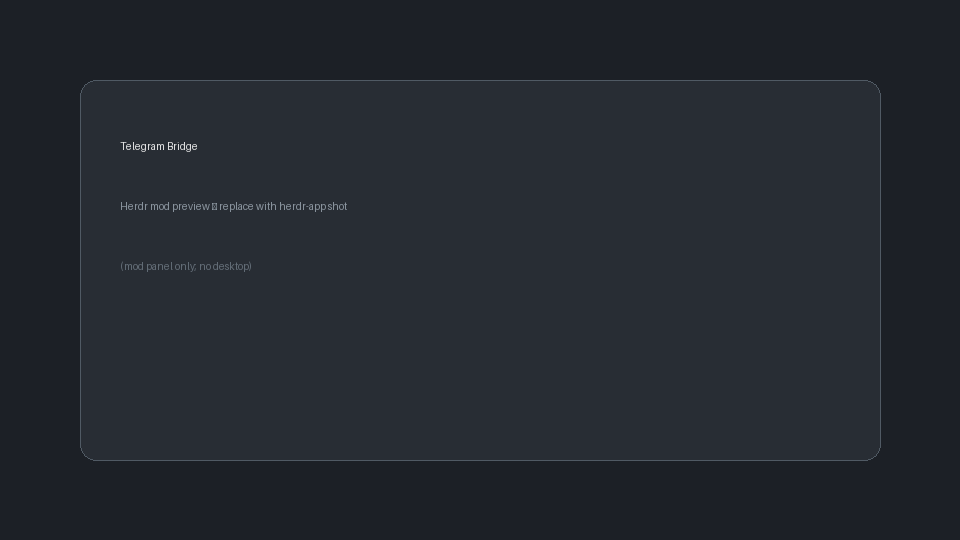
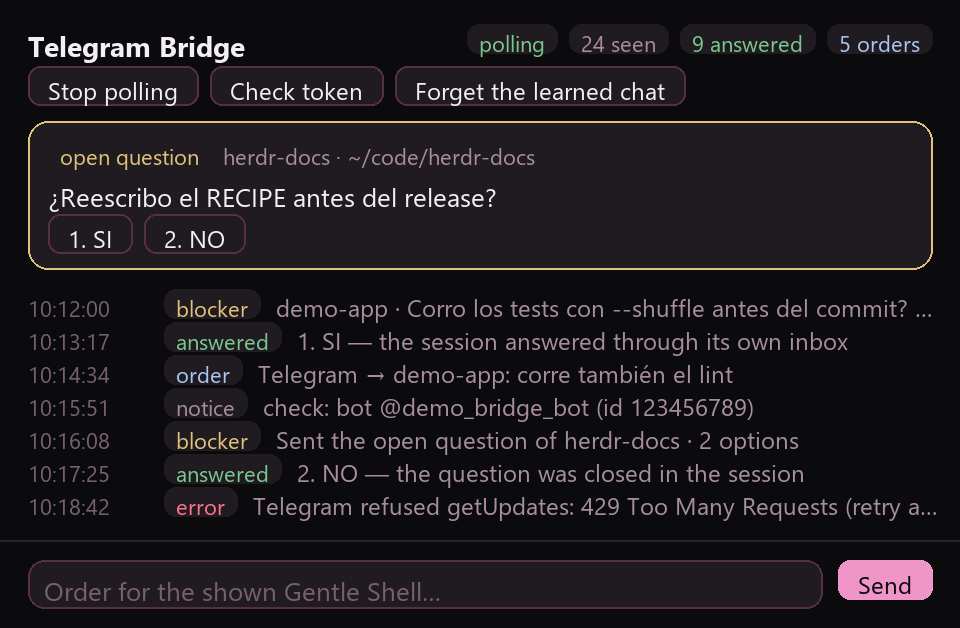
docs(hub): README ready to announce, sanitized preview mock, test count fixed
- README: Requirements, a "What it touches" surface table (network host, reads,
  writes, the one program it runs, the secret), and first-run steps (BotFather,
  check, first chat becomes the operator's).
- README/RECIPE: the test count was 41, it is 53.
- preview.png was 99% two flat colours; tools/preview-mock.py now draws the card
  from tokens.js hex fallbacks and ui.js sizes, sanitized (no session, cwd or
  token). Disclosed in the README caption and RECIPE.
- RECIPE: the internal NOX9GO path is no longer a dangling reference, and
  herdr-app check's stranded-tasks warning is recorded under "Watch out".

Risk: none (docs, a new preview generator and an image; no mod code changed)

diff --git a/tools/preview-mock.py b/tools/preview-mock.py
@@ -1,0 +1,198 @@
+#!/usr/bin/env python3
+"""Build preview.png: a sanitized mock of the Telegram Bridge card.
+
+Why a mock: a real `herdr-app shot` of the open mod carries the session name,
+its cwd and whatever the machine's feed holds, and the hub screenshot must not
+carry any of that. Values here come from mods/gentle-telegram/tokens.js (hex
+fallbacks) and ui.js (sizes, paddings, radii); no bot, session or path is real.
+
+Run: python tools/preview-mock.py
+"""
+import os
+from PIL import Image, ImageDraw, ImageFont
+
+S = 2                      # render at 2x, so the PNG is 960 wide
+W = 480                    # the panel's width in CSS px
+P = {
+    "background": "#0b0a0c", "surface": "#171318", "raised": "#201a21",
+    "line": "#2a2229", "lineStrong": "#563040", "text": "#f4eff2",
+    "muted": "#a78e9b", "faint": "#76616b", "accent": "#f095c8",
+    "ok": "#79c98f", "warn": "#e0c27a", "err": "#ff718f", "info": "#a9c7ee",
+}
+R = {"card": 10, "chip": 6, "row": 8}
+# The app draws with its own UI font; any sans-serif with the same metrics is close
+# enough, so the script runs on the machine that has one instead of one OS's folder.
+FONT_DIRS = ["C:/Windows/Fonts", "/System/Library/Fonts", "/Library/Fonts",
+             "/usr/share/fonts/truetype/dejavu", "/usr/share/fonts/truetype/liberation",
+             os.path.expanduser("~/.local/share/fonts")]
+FONT_FILES = {"reg": ["segoeui.ttf", "DejaVuSans.ttf", "LiberationSans-Regular.ttf",
+                      "Helvetica.ttc", "Arial.ttf"],
+              "semi": ["segoeuib.ttf", "DejaVuSans-Bold.ttf", "LiberationSans-Bold.ttf",
+                       "Helvetica.ttc", "Arial Bold.ttf"]}
+
+
+def font_path(kind, size):
+    for directory in FONT_DIRS:
+        for name in FONT_FILES[kind]:
+            candidate = os.path.join(directory, name)
+            if os.path.exists(candidate):
+                return candidate
+    return None
+
+
+def load(kind, size):
+    path = font_path(kind, size)
+    if path:
+        try:
+            return ImageFont.truetype(path, size * S)
+        except OSError:
+            pass
+    return ImageFont.load_default(size * S)
+
+
+F_TITLE = load("semi", 14)
+F_CHIP = load("reg", 11)
+F_BTN = load("reg", 12)
+F_BODY = load("reg", 13)
+F_META = load("reg", 11)
+F_LOG = load("reg", 12)
+
+HEADER = {"polling": ("polling", "ok"), "idle": ("idle", "muted"),
+          "error": ("error", "err"), "checking": ("checking", "info")}
+QUESTION = {
+    "chip": ("open question", "warn"),
+    "meta": "herdr-docs \u00b7 ~/code/herdr-docs",
+    "text": "\u00bfReescribo el RECIPE antes del release?",
+    "options": ["1. SI", "2. NO"],
+}
+LOG = [
+    ("blocker", "demo-app \u00b7 Corro los tests con --shuffle antes del commit? \u00b7 2 options"),
+    ("answered", "1. SI \u2014 the session answered through its own inbox"),
+    ("order", "Telegram \u2192 demo-app: corre tambi\u00e9n el lint"),
+    ("notice", "check: bot @demo_bridge_bot (id 123456789)"),
+    ("blocker", "Sent the open question of herdr-docs \u00b7 2 options"),
+    ("answered", "2. NO \u2014 the question was closed in the session"),
+    ("error", "Telegram refused getUpdates: 429 Too Many Requests (retry after 3)"),
+]
+KIND = {"blocker": "warn", "answered": "ok", "order": "info",
+        "error": "err", "notice": "muted"}
+
+
+def tw(d, text, font):
+    return d.textlength(text, font=font)
+
+
+def th(font):
+    box = font.getbbox("Ag")
+    return box[3] - box[1]
+
+
+class Pen:
+    def __init__(self, img, d):
+        self.img, self.d, self.y = img, d, 0
+
+    def chip(self, x, y, text, color):
+        h = th(F_CHIP) + 4 * S
+        w = tw(self.d, text, F_CHIP) + 12 * S
+        self.d.rounded_rectangle([x, y, x + w, y + h], R["chip"] * S, fill=P["raised"])
+        self.d.text((x + 6 * S, y + 2 * S), text, font=F_CHIP, fill=P[color])
+        return w, h
+
+    def button(self, x, y, label, primary=False, disabled=False):
+        h = th(F_BTN) + 8 * S
+        w = tw(self.d, label, F_BTN) + 20 * S
+        edge = P["accent"] if primary else P["lineStrong"]
+        self.d.rounded_rectangle([x, y, x + w, y + h], R["chip"] * S,
+                                 fill=P["accent"] if primary else P["raised"],
+                                 outline=edge, width=1 * S)
+        self.d.text((x + 10 * S, y + 4 * S), label, font=F_BTN,
+                    fill=P["background"] if primary else P["text"])
+        if disabled:
+            box = self.img.crop((int(x), int(y), int(x + w), int(y + h)))
+            self.img.paste(Image.blend(box, Image.new("RGB", box.size, P["raised"]), 0.55), (int(x), int(y)))
+        return w, h
+
+
+def build(img, d):
+    pen = Pen(img, d)
+    x0, y = 14 * S, 12 * S
+
+    # header, row 1: title left, chips right (title has flex_1 in the view)
+    chips = [HEADER["polling"][0], "24 seen", "9 answered", "5 orders"]
+    colors = [HEADER["polling"][1], "muted", "ok", "info"]
+    widths = [tw(d, c, F_CHIP) + 12 * S for c in chips]
+    cx = W * S - 14 * S - sum(widths) - 6 * S * (len(chips) - 1)
+    d.text((x0, y + 1 * S), "Telegram Bridge", font=F_TITLE, fill=P["text"])
+    for c, col, w in zip(chips, colors, widths):
+        pen.chip(cx, y, c, col)
+        cx += w + 6 * S
+    y += max(th(F_TITLE) + 2 * S, th(F_CHIP) + 4 * S) + 6 * S
+
+    # header, row 2: the three buttons
+    for label, primary, disabled in [("Stop polling", False, False),
+                                     ("Check token", False, False),
+                                     ("Forget the learned chat", False, False)]:
+        w, _ = pen.button(x0, y, label, primary, disabled)
+        x0 += w + 6 * S
+    y += th(F_BTN) + 8 * S + 8 * S
+
+    # body: the open question, then the log
+    x0 = 14 * S
+    bw = W * S - 28 * S
+    pad = 10 * S
+    qh = 8 * S + (th(F_CHIP) + 4 * S) + 6 * S + th(F_BODY) + 6 * S + (th(F_BTN) + 8 * S) + 8 * S
+    d.rounded_rectangle([x0, y, x0 + bw, y + qh], R["card"] * S, fill=P["raised"],
+                        outline=P["warn"], width=1 * S)
+    qy = y + 8 * S
+    w, h = pen.chip(x0 + pad, qy, *QUESTION["chip"])
+    d.text((x0 + pad + w + 6 * S, qy + 2 * S), QUESTION["meta"], font=F_META, fill=P["muted"])
+    qy += h + 6 * S
+    d.text((x0 + pad, qy), QUESTION["text"], font=F_BODY, fill=P["text"])
+    qy += th(F_BODY) + 6 * S
+    bx = x0 + pad
+    for label in QUESTION["options"]:
+        w, _ = pen.button(bx, qy, label)
+        bx += w + 6 * S
+    y += qh + 10 * S
+
+    # log: time (60px), kind chip, one truncated line
+    for index, (kind, text) in enumerate(LOG):
+        d.text((x0, y + 2 * S), "10:%02d:%02d" % (12 + index, (index * 17) % 60),
+               font=F_META, fill=P["faint"])
+        w, h = pen.chip(x0 + 60 * S + 8 * S, y, kind, KIND[kind])
+        tx = x0 + 60 * S + 8 * S + w + 8 * S
+        room = x0 + bw - tx
+        line = text
+        while tw(d, line, F_LOG) > room and len(line) > 8:
+            line = line[:-2]
+        if line != text:
+            line = line[:-1] + "\u2026"
+        d.text((tx, y + 1 * S), line, font=F_LOG, fill=P["muted"])
+        y += max(h, th(F_LOG) + 3 * S) + 2 * S
+
+    # composer: top border, input box, Send
+    y += 10 * S
+    d.line([0, y, W * S, y], fill=P["line"], width=1 * S)
+    y += 10 * S
+    box_h = th(F_BODY) + 12 * S
+    send_w = tw(d, "Send", F_BTN) + 20 * S
+    d.rounded_rectangle([x0, y, x0 + bw - send_w - 8 * S, y + box_h], R["row"] * S,
+                        fill=P["raised"], outline=P["lineStrong"], width=1 * S)
+    d.text((x0 + 8 * S, y + 6 * S), "Order for the shown Gentle Shell\u2026",
+           font=F_BODY, fill=P["faint"])
+    pen.button(x0 + bw - send_w, y, "Send", primary=True)
+    y += box_h + 10 * S
+    return int(y)
+
+
+def main():
+    probe = ImageDraw.Draw(Image.new("RGB", (10, 10)))
+    h = build(Image.new("RGB", (W * S, 1)), probe)
+    img = Image.new("RGB", (W * S, h), P["background"])
+    build(img, ImageDraw.Draw(img))
+    img.save("preview.png")
+    print("preview.png", img.size)
+
+
+if __name__ == "__main__":
+    main()

diff --git a/RECIPE.md b/RECIPE.md
@@ -17,7 +17,7 @@ The head "Telegram Bridge" (14px, semibold) with the status pill (`polling`, `id
 - **The token.** `shared("gentle-telegram.token")` from `kit.json`; `GENTLE_TELEGRAM_TOKEN` is read as a fallback when the setting is empty. Nothing about NOX9GO's configuration is reused, and the token is never logged: a failed call logs what Telegram said (`Telegram refused getMe: ...`), not the token.
 - Errors are deduped: the same complaint is logged once a minute at most, so a Telegram outage cannot fill the log.
 ## Built from
-- `docs/TELEGRAM_GENTLE_SHELL.md` in NOX9GO (the review of what made Telegram work there): the detection order (desktop feed first), dedup by `toolCallId`, and the `answer_question`/`via: "session"` inbox path over pane keys.
+- An earlier internal review of a Telegram bridge in another Gentle Shell setup (NOX9GO): the detection order (desktop feed first), dedup by `toolCallId`, and the `answer_question`/`via: "session"` inbox path over pane keys.
 - The Gentle Shell desktop contracts `gentle-shell.desktop-feed/v1` (the session snapshot: `activity.state`, `identity.sessionId`, `identity.agentDir`, `pendingQuestion.{kind,tool,toolCallId,question,options[]}`) and `gentle-shell.desktop-action/v1`.
 - The publication shape of `Pacoaldev/gentle-agent-cards` (`mods/<name>/`, `kit.json`, `RECIPE.md`, `preview.json`, a README with an install prompt).
 - Herdr's mod API: `herdr` (`shared`, `setShared`, `nextCommand`, `watchFolder`, `hc`, `focused`, `terminals`, `home`, `theme`, `notify`), `gpui-kit` (`View`, `div`), `gpui-base` (`v_flex`, `h_flex`, `Textarea`, `TextareaState`), `fs/promises`.
@@ -25,13 +25,14 @@ The head "Telegram Bridge" (14px, semibold) with the status pill (`polling`, `id
 ## Watch out
 - **The mod's `fs/promises` has no `stat`, and `herdr-app check` is what tells you**: it failed with `Could not find export 'stat' in module 'fs/promises'` before the recency map replaced it. Check the mod after every host import you add; a wrong export is a load failure, not a runtime error.
 - **A mod window is a `place: "none"` mod**, so it registers its commands only once a pane instantiates it: `herdr-app do` on it needs the mod open in a pane first, and the ⌘-list entry comes from `kit.json`'s `"key"` setting.
+- **`herdr-app check` passes with one warning**: `a reload stranded script tasks that will never settle (3 a HostModule's async function, 1 cx.sleep(ms)); re-register background work from init()`. The loops stop correctly (`live(cx)`), but a reload still leaves the timer and host calls stranded; a fresh build should re-register its background work from `init()` instead of at module scope.
 - **Streams and `fetch`.** A long poll holds the promise for 25 s (`POLL_TIMEOUT_DEFAULT`), and a Telegram failure logs the description Telegram sent, never the URL: the URL carries the bot token.
 - **`cx.sleep` is the host's timer.** `lib/` stays free of it (the runtime takes `sleep` as an argument), which is what lets the outbox wait be tested without a window.
 - **Never `bg()` a raw `theme()` value**: it may be missing on some setups and an `undefined` colour surfaces as "child(value) expects an element". `tokens.js` reads a role and falls back to the token's own hex.
 - **A render error keeps the pane on the failed version** (the banner "This view could not be re-rendered" stays after the fix): close the pane and split it again.
-- `preview.png` is **only the mod card**, not your desktop, terminals, or paths. Open the overlay (`herdr-app do mod.open --name gentle-telegram`), crop to the Telegram Bridge panel, or use a placeholder. Never commit a full-window `herdr-app shot` (secrets and cwd leak in the README).
+- `preview.png` is a **sanitized mock**, not a shot of a real window: `tools/preview-mock.py` draws it from `tokens.js` hex fallbacks and the sizes in `ui.js`, so it carries no session name, cwd, token or feed data (the hub screenshot must never carry those). Regenerate it with `python tools/preview-mock.py`; replace it with a real `herdr-app shot` once a real session's card can be cropped to the panel alone. Never commit a full-window shot (secrets and cwd leak in the README).
 - Verified on this machine (Windows): the mod loads in a pane (`pane.split --direction right --mod gentle-telegram`) and as an overlay with `"errors": []`, and it draws its card with the missing-token notice, not the "This view could not be re-rendered" banner. Untested: a real bot token (no bot was configured in this work), a live Pi session answering through the inbox, the network reach of a mod's own `fetch` (a probe mod is at `tests/probe-network/`: `herdr-app check` strands the task at teardown, so it needs the live window), macOS, Linux, a remote machine's window, group chats, and a `pendingQuestion` of kind `prompt`.
 ## Done when
-- `node --test tests/` is 41 pass / 0 fail, and `herdr-app check mods/gentle-telegram` passes.
+- `node --test tests/` is 53 pass / 0 fail, and `herdr-app check mods/gentle-telegram` passes.
 - With a token set: `gentle-telegram.check` answers which bot it is; with a session blocked on a choice, the question arrives with one button per option; a tap answers it in the session (the outbox result says so) and the message turns into `✅ <option>`.
 - With polling on and a session with an inbox, a Telegram message appears as a prompt in that session.

diff --git a/README.md b/README.md
@@ -2,16 +2,38 @@
   <img width="100%" src="preview.png" alt="Telegram Bridge" />
 </p>
 
+*Sanitized mock of the mod's card (`tools/preview-mock.py`): no real session, path or token.*
+
 # Telegram Bridge
 A Herdr app mod (`gentle-telegram`) that puts Telegram in the loop of a [Gentle Shell](https://github.com/Pacoaldev) session: the option question a session is blocked on goes to your phone with one button per option, and a message you send from Telegram runs as a prompt in the newest session.
 
 The point is which path answers. A tap writes a `gentle-shell.desktop-action/v1` file (`kind: "answer_question"`, `args: { toolCallId, option, via: "session" }`) into `<agentDir>/desktop/inbox/<sessionId>/`, which is the path that actually unblocks Pi: no terminal keys, no pane scraping.
+
+## Requirements
+- The [Herdr app](https://herdr.dev), with mods and `kit.json` settings.
+- Gentle Shell sessions writing the desktop feed (`gentle-shell.desktop-feed/v1`) on this machine.
+- A Telegram bot: talk to @BotFather, `/newbot`, copy the token.
+
+## What it touches
+| Surface | What |
+| --- | --- |
+| Network | `https://api.telegram.org` only, with your bot token. No other host. |
+| Reads | `<agentDir>/desktop/sessions/*.json` (the feed) and `<agentDir>/desktop/outbox/<sessionId>/*.json` (the session's own answer coming back). |
+| Writes | `<agentDir>/desktop/inbox/<sessionId>/<id>.json`, the `gentle-shell.desktop-action/v1` answer file. |
+| Runs | `hc send <address> <text>` only when the newest session has no inbox. Nothing else is executed. |
+| Secret | The bot token lives in `shared("gentle-telegram.token")` (or `GENTLE_TELEGRAM_TOKEN`) and is never logged. |
 
 ## Install
 Copy and paste this prompt to your LLM agent:
 `Read ~/.config/herdr-app/AGENTS.md, then add this mod: https://github.com/Pacoaldev/gentle-telegram/tree/main/mods/gentle-telegram`
 
 Nothing outside the mod folder is required: it talks to Telegram over `fetch` and reads the desktop feed of the Gentle Shell sessions on this machine.
+
+First run:
+1. @BotFather → `/newbot` → paste the token into **Bot token** (`gentle-telegram.token`).
+2. `gentle-telegram.check` answers which bot the token belongs to.
+3. Open the bridge (its `Shortcut` setting, or `herdr-app do mod.open --name gentle-telegram`) and write to the bot from Telegram: the first chat that writes becomes the operator's unless **Allowed chats** names ids.
+4. Block a session on an option question: it arrives with one button per option.
 
 ## What it does
 | Direction | How |
@@ -43,7 +65,7 @@ Inside the window: one button per option of the open question (the same answers 
 
 ## Develop
 ```bash
-node --test tests/                          # 41 tests over the pure logic (lib/)
+node --test tests/                          # 53 tests over the pure logic (lib/)
 herdr-app check mods/gentle-telegram        # the mod loads once, and what is wrong is reported
 ```
 `mods/gentle-telegram/lib/` holds the rules (the Telegram wire format, the feed extraction, the action files, the dedup state) with no host imports, so they are unit-tested without a bot, a machine or a window. `runtime.js` is the wiring, `main.js` the view and the loops, `ui.js`/`tokens.js` the drawing.
